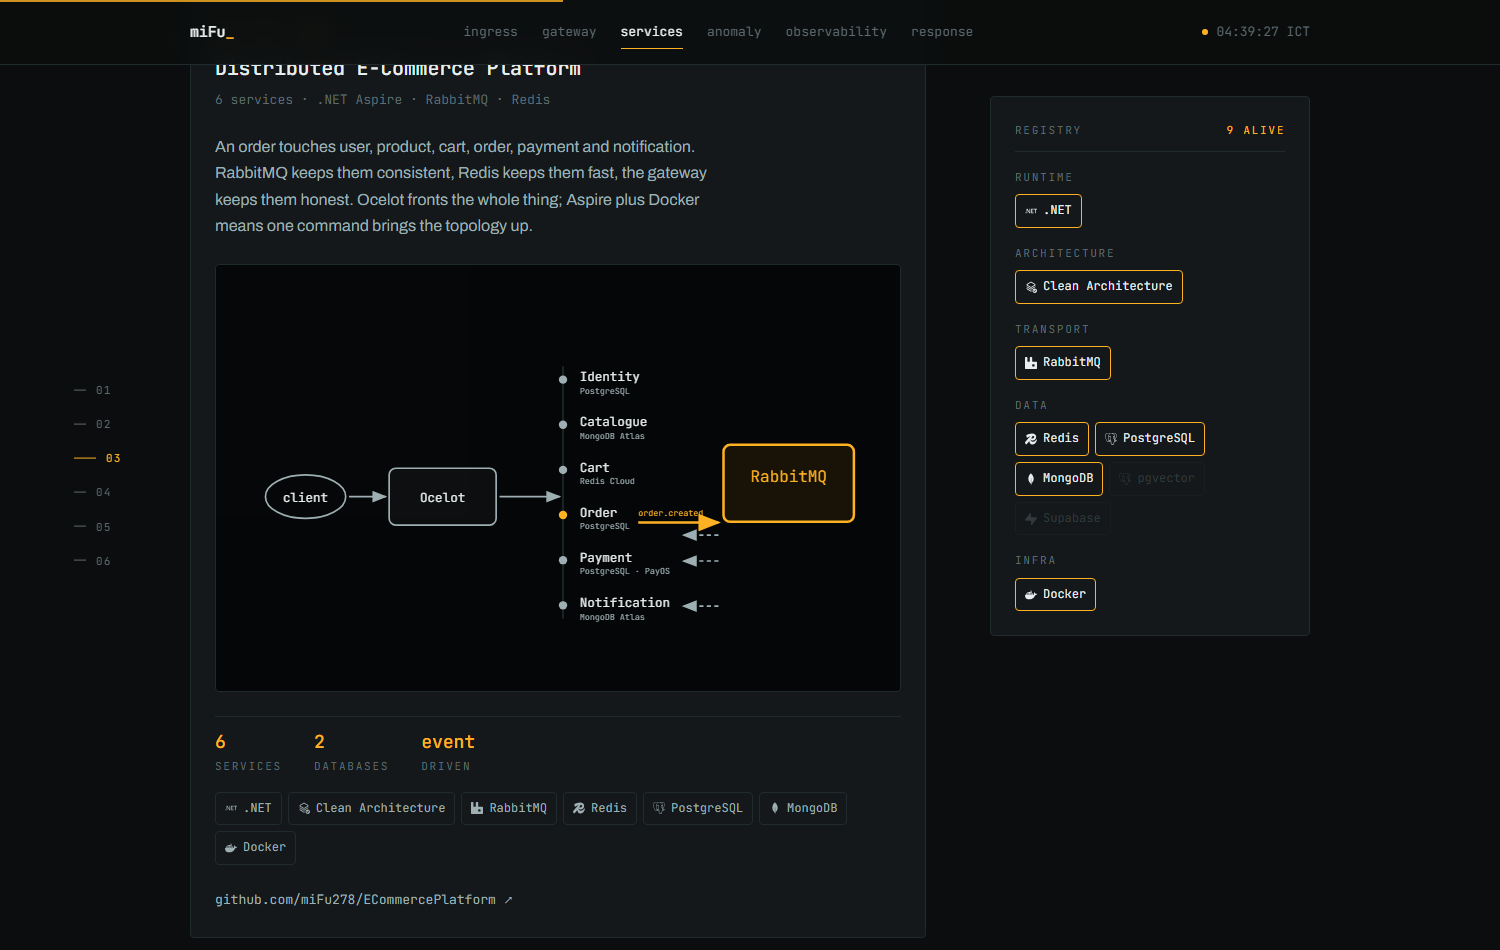
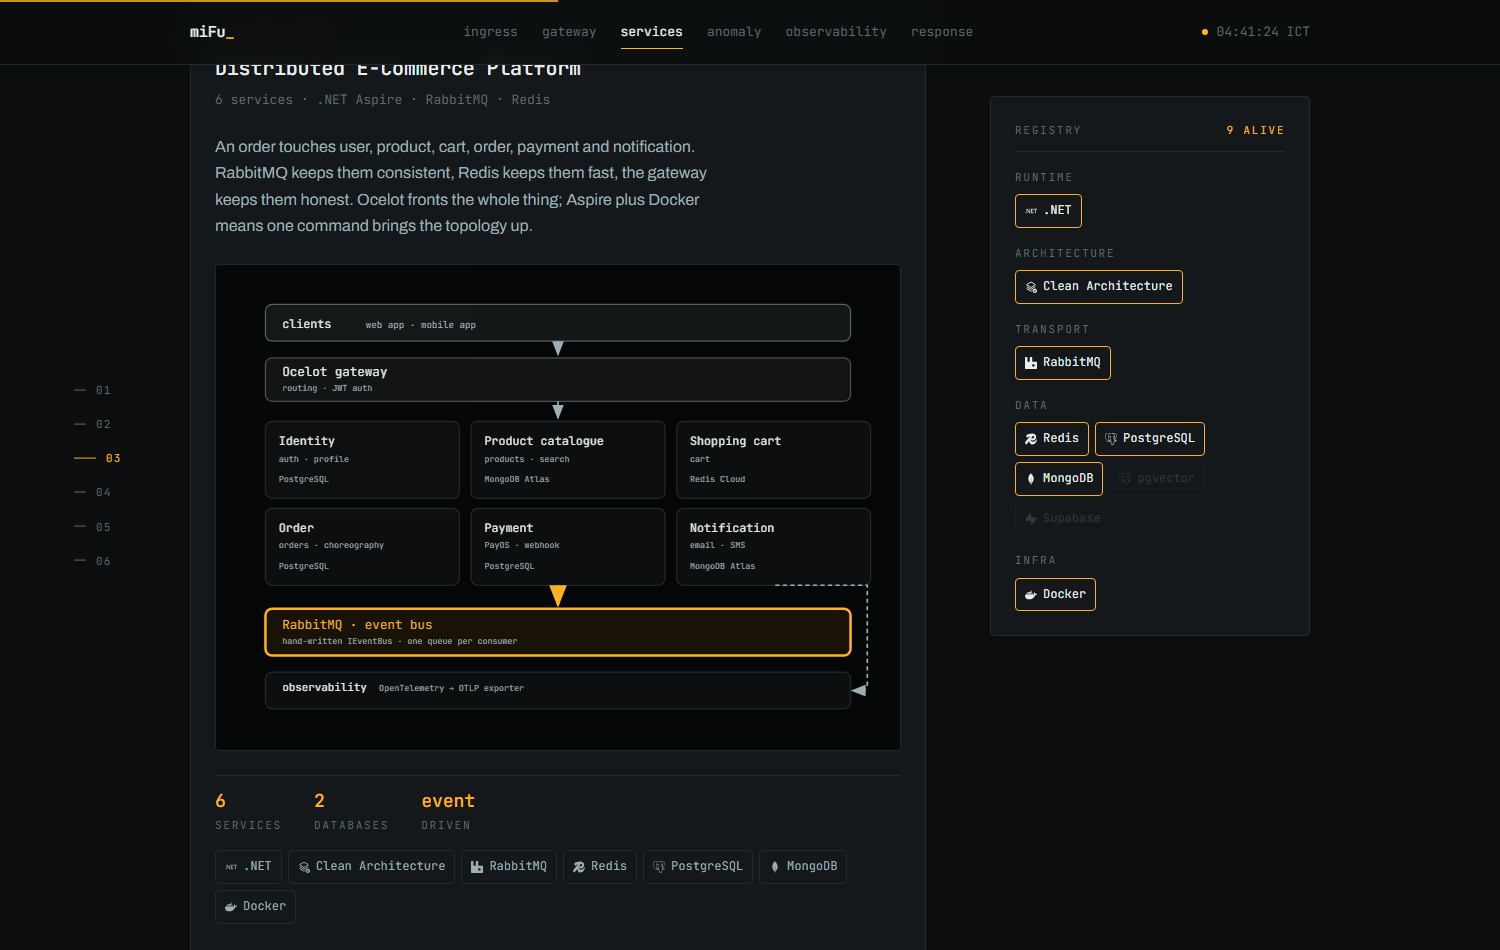
feat(diagram): render the full e-commerce content, re-flowed to 3x2
The detailed scene carries information the compact one dropped, so it is back:
both clients, the gateway, all six services with role and datastore, the event
bus with its two events, and observability.

The original scene is 1950x1150. Rendered into a ~760px card that scales 13px
labels to 5px, so the same content is re-laid as a 3x2 grid rather than dropped:
nothing lost, only re-flowed.

Dropped two claims that are not in the code: 'Orders - Saga' (no orchestrator)
and 'Cart - Coupon' (no coupon code).

diff --git a/src/features/services/components/diagrams/EcommerceDiagram.tsx b/src/features/services/components/diagrams/EcommerceDiagram.tsx
@@ -1,52 +1,58 @@
 /**
- * E-Commerce platform — composition follows the excalidraw-diagram doctrine.
+ * E-Commerce platform — FULL content, compact composition.
  *
- * Source of truth for content: docs/diagrams/ecommerce-full.excalidraw (the
- * detailed scene, corrected against the code). Source of truth for layout: the
- * doctrine's two rules — default to no container, and build hierarchy from type
- * size instead of identical boxes. Only three containers survive: client,
- * gateway, broker. The six services are a dot + text list on a spine, each with
- * its own datastore, so "polyglot persistence" is visible without six more boxes.
+ * Content is the corrected docs/diagrams/ecommerce-full.excalidraw: clients →
+ * Ocelot gateway → six services (each with its own role and datastore) → event
+ * bus → observability. The original scene is 1950×1150; scaled to a ~760px card
+ * that puts 13px labels at 5px. So the same content is re-laid as a 3×2 grid —
+ * nothing dropped, only re-flowed.
  *
- * Corrections applied to the original scene, verified in the repo:
- *   Stripe            → PayOS          (Program.cs: IPaymentGateway → PayOSGateway)
- *   MassTransit       → custom bus     (BuildingBlocks/ECommerce.EventBus, no MassTransit csproj)
- *   Serilog/Seq/Jaeger→ OTLP exporter  (ServiceDefaults/Extensions.cs: UseOtlpExporter)
- *   PaymentProcessed  → PaymentCompletedEvent (published by PaymentService, consumed by Order + Notification)
- *   rate limiting/caching dropped      (ocelot.json declares routes + Bearer auth only)
+ * Corrections carried over from the code, verified in the repo:
+ *   Stripe            → PayOS            (IPaymentGateway : PayOSGateway)
+ *   MassTransit       → custom IEventBus (no MassTransit csproj anywhere)
+ *   Serilog/Seq/Jaeger→ OTLP exporter    (ServiceDefaults: UseOtlpExporter)
+ *   PaymentProcessed  → PaymentCompletedEvent
+ *   rate limiting/caching dropped        (ocelot.json: routes + Bearer only)
+ *   Orders · Saga and Cart · Coupon dropped: neither is in the code
  */
-const SERVICES: Array<[name: string, store: string]> = [
-  ['Identity', 'PostgreSQL'],
-  ['Catalogue', 'MongoDB Atlas'],
-  ['Cart', 'Redis Cloud'],
-  ['Order', 'PostgreSQL'],
-  ['Payment', 'PostgreSQL · PayOS'],
-  ['Notification', 'MongoDB Atlas'],
+type Service = { name: string; role: string; store: string };
+
+const SERVICES: Service[] = [
+  { name: 'Identity', role: 'auth · profile', store: 'PostgreSQL' },
+  { name: 'Product catalogue', role: 'products · search', store: 'MongoDB Atlas' },
+  { name: 'Shopping cart', role: 'cart', store: 'Redis Cloud' },
+  { name: 'Order', role: 'orders · choreography', store: 'PostgreSQL' },
+  { name: 'Payment', role: 'PayOS · webhook', store: 'PostgreSQL' },
+  { name: 'Notification', role: 'email · SMS', store: 'MongoDB Atlas' },
 ];
 
-const FIRST_Y = 118;
-const STEP = 54;
-const dotY = (i: number) => FIRST_Y + i * STEP;
+const COLS = [40, 286, 532];
+const ROWS = [168, 272];
+const CARD_W = 232;
+const CARD_H = 92;
+
+const CARD = { fill: 'var(--dg-node-fill)', stroke: 'var(--dg-rule)' } as const;
 
 const EcommerceDiagram = () => (
   <svg
     className="diagram"
-    viewBox="0 0 780 470"
+    viewBox="0 0 780 540"
     xmlns="http://www.w3.org/2000/svg"
     role="img"
     aria-labelledby="dg-ecom-title dg-ecom-desc"
   >
     <title id="dg-ecom-title">Distributed e-commerce platform</title>
     <desc id="dg-ecom-desc">
-      A client reaches an Ocelot gateway that fronts six .NET services, each owning its own
-      datastore. The order service publishes an order-created event to RabbitMQ; payment and
-      notification consume it, and payment completion returns to the order service.
+      Web and mobile clients reach an Ocelot gateway fronting six .NET services, each owning its
+      own datastore. The order service publishes an order-created event onto RabbitMQ through a
+      hand-written event bus; payment completes and returns. All services export OpenTelemetry
+      traces over OTLP.
     </desc>
 
     <defs>
       <filter id="dg-ecom-sketch" x="-3%" y="-3%" width="106%" height="106%">
         <feTurbulence type="fractalNoise" baseFrequency="0.018" numOctaves="2" seed="7" />
-        <feDisplacementMap in="SourceGraphic" scale="1.3" />
+        <feDisplacementMap in="SourceGraphic" scale="1.2" />
       </filter>
       <marker id="dg-ecom-arrow" markerWidth="9" markerHeight="7" refX="8" refY="3.5" orient="auto">
         <polygon points="0 0, 9 3.5, 0 7" fill="var(--dg-muted)" />
@@ -56,56 +62,90 @@ const EcommerceDiagram = () => (
       </marker>
     </defs>
 
-    {/* shapes wobble; text stays outside the filtered group */}
     <g filter="url(#dg-ecom-sketch)">
-      <ellipse cx="88" cy="258" rx="48" ry="26" fill="none" stroke="var(--dg-muted)" strokeWidth="2" />
-      <rect x="188" y="224" width="128" height="68" rx="8" fill="var(--dg-node-fill)" stroke="var(--dg-muted)" strokeWidth="2" />
+      <rect x="40" y="28" width="700" height="44" rx="8" fill="var(--dg-node-ext)" stroke="var(--dg-stroke-ext)" strokeWidth="1.5" />
+      <rect x="40" y="92" width="700" height="52" rx="8" fill="var(--dg-node-cloud)" stroke="var(--dg-stroke-cloud)" strokeWidth="1.5" />
 
-      {/* the service spine: structure through a line, not six boxes */}
-      <line x1="396" y1={FIRST_Y - 16} x2="396" y2={dotY(5) + 16} stroke="var(--dg-rule)" strokeWidth="2" />
-      {SERVICES.map(([name], i) => (
-        <circle
-          key={name}
-          cx="396"
-          cy={dotY(i)}
-          r="5"
-          fill={name === 'Order' ? 'var(--dg-accent)' : 'var(--dg-muted)'}
+      {SERVICES.map((s, i) => (
+        <rect
+          key={s.name}
+          x={COLS[i % 3]}
+          y={ROWS[Math.floor(i / 3)]}
+          width={CARD_W}
+          height={CARD_H}
+          rx="8"
+          fill={CARD.fill}
+          stroke={CARD.stroke}
+          strokeWidth="1.5"
         />
       ))}
 
-      <rect x="588" y="196" width="156" height="92" rx="8" fill="var(--dg-node-accent)" stroke="var(--dg-accent)" strokeWidth="3" />
+      <rect x="40" y="392" width="700" height="56" rx="8" fill="var(--dg-node-accent)" stroke="var(--dg-accent)" strokeWidth="3" />
+      <rect x="40" y="468" width="700" height="44" rx="8" fill="var(--dg-node-fill)" stroke="var(--dg-rule)" strokeWidth="1.5" />
     </g>
 
-    <line x1="140" y1="258" x2="184" y2="258" stroke="var(--dg-muted)" strokeWidth="2" markerEnd="url(#dg-ecom-arrow)" />
-    <line x1="320" y1="258" x2="392" y2="258" stroke="var(--dg-muted)" strokeWidth="2" markerEnd="url(#dg-ecom-arrow)" />
-    <line x1="486" y1="289" x2="582" y2="289" stroke="var(--dg-accent)" strokeWidth="3" markerEnd="url(#dg-ecom-accent)" />
-    <line x1="582" y1="304" x2="540" y2="304" stroke="var(--dg-muted)" strokeWidth="2" strokeDasharray="5,4" markerEnd="url(#dg-ecom-arrow)" />
-    <line x1="582" y1="335" x2="540" y2="335" stroke="var(--dg-muted)" strokeWidth="2" strokeDasharray="5,4" markerEnd="url(#dg-ecom-arrow)" />
-    <line x1="582" y1="389" x2="540" y2="389" stroke="var(--dg-muted)" strokeWidth="2" strokeDasharray="5,4" markerEnd="url(#dg-ecom-arrow)" />
+    {/* connectors */}
+    <line x1="390" y1="72" x2="390" y2="88" stroke="var(--dg-muted)" strokeWidth="2" markerEnd="url(#dg-ecom-arrow)" />
+    <line x1="390" y1="144" x2="390" y2="164" stroke="var(--dg-muted)" strokeWidth="2" markerEnd="url(#dg-ecom-arrow)" />
+    <line x1="390" y1="364" x2="390" y2="388" stroke="var(--dg-accent)" strokeWidth="3" markerEnd="url(#dg-ecom-accent)" />
+    <path
+      d="M 650,364 H 760 V 482 Q 760,490 752,490 H 742"
+      fill="none"
+      stroke="var(--dg-muted)"
+      strokeWidth="2"
+      strokeDasharray="5,4"
+      markerEnd="url(#dg-ecom-arrow)"
+    />
 
-    <text x="88" y="264" fontFamily="var(--font-mono)" fontSize="15" fill="var(--dg-ink)" textAnchor="middle">
-      client
+    {/* clients */}
+    <text x="60" y="56" fontFamily="var(--font-mono)" fontSize="14" fill="var(--dg-ink)">
+      clients
     </text>
-    <text x="252" y="264" fontFamily="var(--font-mono)" fontSize="15" fill="var(--dg-ink)" textAnchor="middle">
-      Ocelot
+    <text x="160" y="56" fontFamily="var(--font-mono)" fontSize="11" fill="var(--dg-soft)">
+      web app · mobile app
     </text>
 
-    {SERVICES.map(([name, store], i) => (
-      <g key={name}>
-        <text x="416" y={dotY(i) + 2} fontFamily="var(--font-mono)" fontSize="15" fill="var(--dg-ink)">
-          {name}
-        </text>
-        <text x="416" y={dotY(i) + 17} fontFamily="var(--font-mono)" fontSize="10" fill="var(--dg-soft)">
-          {store}
-        </text>
-      </g>
-    ))}
-
-    <text x="666" y="240" fontFamily="var(--font-mono)" fontSize="19" fill="var(--dg-accent)" textAnchor="middle">
-      RabbitMQ
+    {/* gateway */}
+    <text x="60" y="114" fontFamily="var(--font-mono)" fontSize="15" fill="var(--dg-ink)">
+      Ocelot gateway
     </text>
-    <text x="486" y="281" fontFamily="var(--font-mono)" fontSize="10" fill="var(--dg-accent)">
-      order.created
+    <text x="60" y="132" fontFamily="var(--font-mono)" fontSize="10" fill="var(--dg-soft)">
+      routing · JWT auth
+    </text>
+
+    {/* six services */}
+    {SERVICES.map((s, i) => {
+      const x = COLS[i % 3] + 16;
+      const y = ROWS[Math.floor(i / 3)];
+      return (
+        <g key={s.name}>
+          <text x={x} y={y + 28} fontFamily="var(--font-mono)" fontSize="14" fill="var(--dg-ink)">
+            {s.name}
+          </text>
+          <text x={x} y={y + 48} fontFamily="var(--font-mono)" fontSize="10" fill="var(--dg-soft)">
+            {s.role}
+          </text>
+          <text x={x} y={y + 72} fontFamily="var(--font-mono)" fontSize="10" fill="var(--dg-muted)">
+            {s.store}
+          </text>
+        </g>
+      );
+    })}
+
+    {/* event bus — the one accent */}
+    <text x="60" y="416" fontFamily="var(--font-mono)" fontSize="15" fill="var(--dg-accent)">
+      RabbitMQ · event bus
+    </text>
+    <text x="60" y="434" fontFamily="var(--font-mono)" fontSize="10" fill="var(--dg-soft)">
+      hand-written IEventBus · one queue per consumer
+    </text>
+
+    {/* observability */}
+    <text x="60" y="490" fontFamily="var(--font-mono)" fontSize="13" fill="var(--dg-ink)">
+      observability
+    </text>
+    <text x="176" y="490" fontFamily="var(--font-mono)" fontSize="10" fill="var(--dg-soft)">
+      OpenTelemetry → OTLP exporter
     </text>
   </svg>
 );

diff --git a/src/config/content.ts b/src/config/content.ts
@@ -138,14 +138,14 @@ export const EXPERIENCE: ExperienceEntry[] = [
 export const RESEARCH: ResearchEntry = {
   role: 'First author',
   venue: 'FISAT · EAI · 2026',
-  status: 'Under review',
+  status: 'Accepted',
   title: 'Latent Surprise Is Protocol-Sensitive: JEPA-Based OOD Detection',
   lead: 'Anomaly detection is the layer that decides a request is unlike anything the system has seen before. My research asks whether a world model can tell — before the request reaches a service that cannot handle it.',
   body: 'We probe JEPA world models as out-of-distribution detectors: a model that predicts in latent space gives you a distance signal for free. Across ten paired seeds we found that online EMA score normalization reverses AUROC rankings — meaning the evaluation protocol, not the architecture, was deciding which detector looked best.',
   facts: [
     { label: 'ROLE', value: 'First author' },
     { label: 'VENUE', value: 'FISAT · EAI · 2026' },
-    { label: 'STATUS', value: 'Under review' },
+    { label: 'STATUS', value: 'Accepted' },
     { label: 'METHOD', value: '10 paired seeds · EMA normalization' },
   ],
 };
